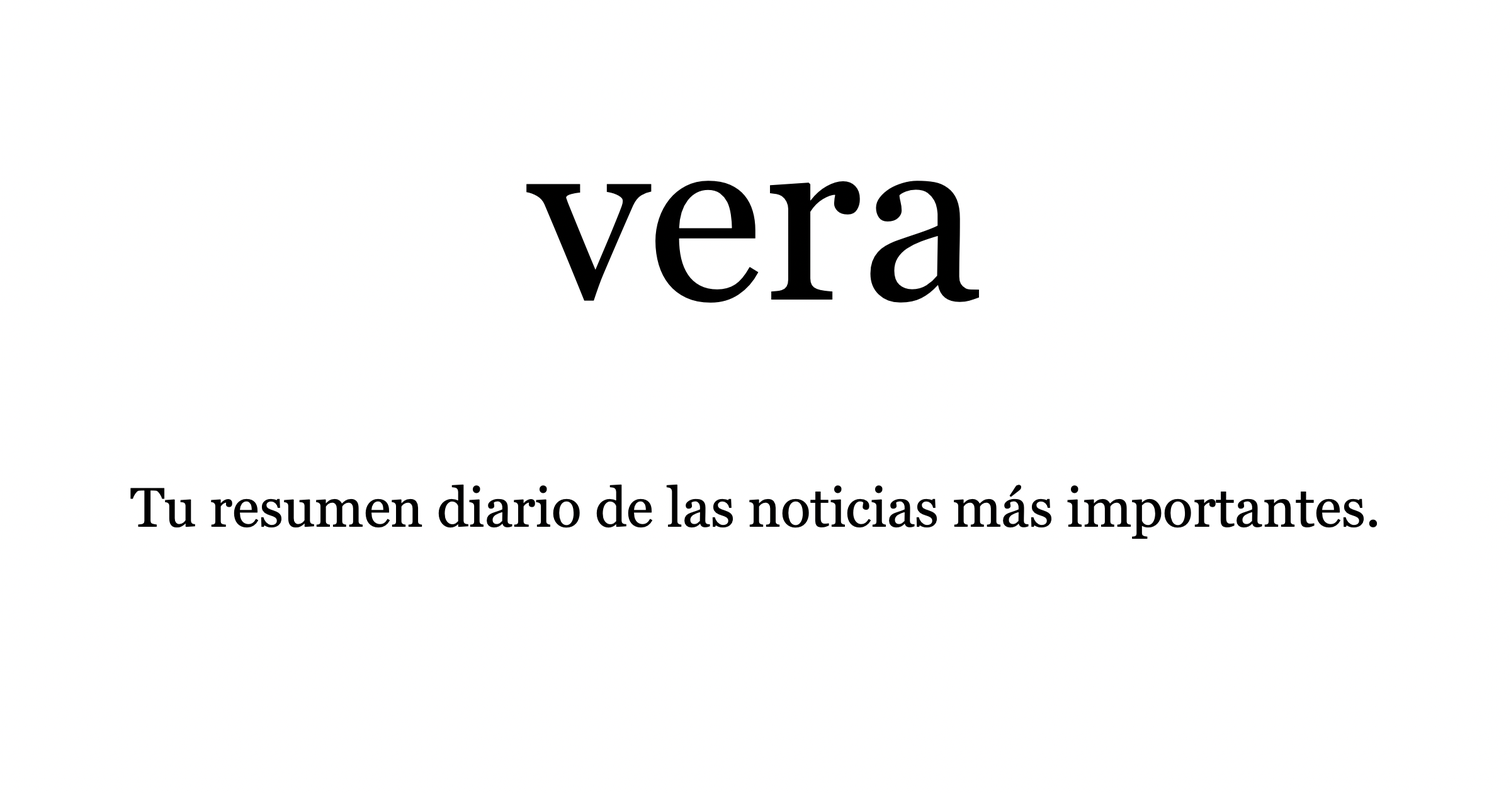
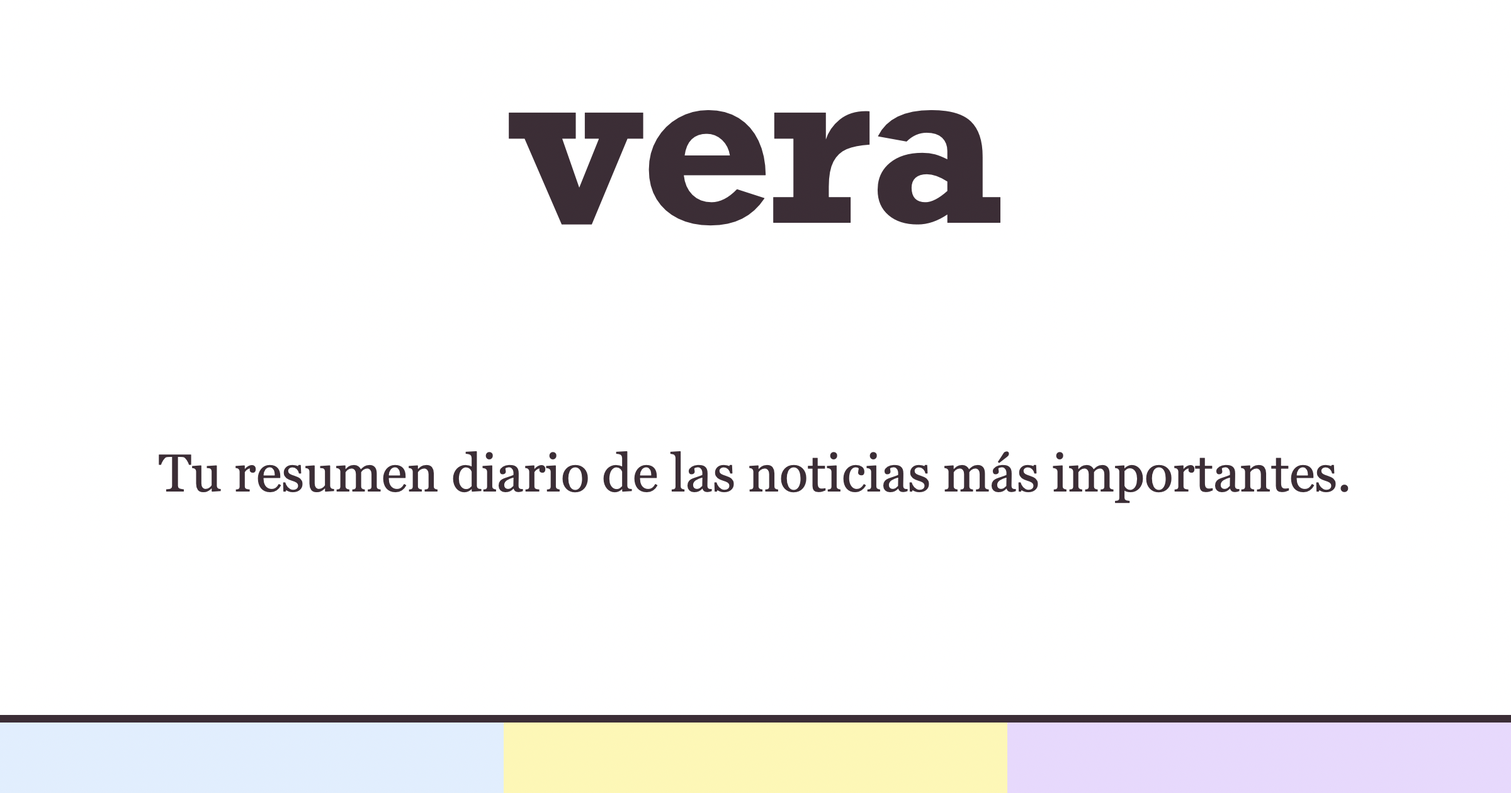
Actualiza formulario (GitHub Actions)

Changed region(s): [[0.0, 0.8976, 1.0, 1.0], [0.3125, 0.1238, 0.6875, 0.4024], [0.0938, 0.5571, 0.9062, 0.681]]

diff --git a/hola/index.html b/hola/index.html
@@ -21,41 +21,43 @@
 <meta name="twitter:description" content="Un correo diario y breve con las noticias más relevantes de Chile y el mundo, más tus temas.">
 <meta name="twitter:image" content="https://holavera.news/og.png">
 <style>
-  :root { --azul:#0047ff; --tinte:#e6edff; --tinta:#1a1a1a; --gris:#737373; --papel:#fff; --bg:#f2f2f2; --serif:Georgia,'Times New Roman',Times,serif; --sans:Helvetica,Arial,sans-serif; }
+  :root { --tinta:#2f2129; --gris:#8a8a8a; --papel:#fff; --bg:#efefef;
+    --azul:#d7eaff; --azul-acento:#538fd1; --amarillo:#fef79f; --mostaza:#aea100; --lila:#e4cdff; --purpura:#a07bcd;
+    --serif:Georgia,'Times New Roman',Times,serif; --slab:Rockwell,'Roboto Slab',Georgia,serif; --sans:Helvetica,Arial,sans-serif; }
   * { box-sizing:border-box; }
   body { margin:0; background:var(--bg); font-family:var(--serif); color:var(--tinta); }
   .wrap { max-width:600px; margin:24px auto; background:var(--papel); }
-  .cab { text-align:center; padding:34px 40px 36px; }
-  .logo { font-size:60px; line-height:1.1; letter-spacing:-0.5px; color:#000; }
+  .cab { text-align:center; padding:34px 40px 26px; border-bottom:2px solid var(--tinta); }
+  .logo { font-family:var(--slab); font-weight:bold; font-size:52px; line-height:1.1; letter-spacing:-0.5px; color:var(--tinta); }
   .lema { font-size:22px; line-height:1.2; margin:18px auto 0; max-width:300px; }
   .fecha { font-size:22px; line-height:1.2; color:var(--gris); margin-top:36px; }
-  .bloque { background:var(--tinte); border-top:2px solid var(--azul); padding:30px 60px 36px; color:var(--azul); }
-  .pill { display:inline-block; font-family:var(--sans); font-size:14px; line-height:18px; font-weight:bold; text-transform:uppercase; letter-spacing:.5px; color:#fff; background:var(--azul); border-radius:5px; padding:7px 18px; }
+  .bloque { background:var(--azul); padding:30px 60px 36px; color:var(--tinta); }
+  .pill { display:inline-block; font-family:var(--sans); font-size:13px; line-height:17px; font-weight:bold; text-transform:uppercase; letter-spacing:.8px; color:#fff; background:var(--tinta); border-radius:3px; padding:6px 14px; }
   .centro { text-align:center; margin-bottom:22px; }
   .bloque p { font-size:22px; line-height:1.25; margin:0 0 16px; }
   .bloque p.hint, .hint { font-family:var(--sans); font-size:12px; line-height:1.5; text-transform:uppercase; letter-spacing:.3px; color:inherit; }
   .form { padding:26px 60px 36px; }
-  h2 { font-family:var(--sans); font-size:14px; font-weight:bold; text-transform:uppercase; letter-spacing:.5px; color:var(--azul); margin:22px 0 10px; }
-  label.f { display:block; font-family:var(--sans); font-size:11px; font-weight:bold; text-transform:uppercase; letter-spacing:.3px; color:var(--azul); margin:16px 0 6px; }
+  h2 { font-family:var(--serif); font-size:24px; font-weight:normal; color:var(--tinta); margin:26px 0 10px; }
+  label.f { display:block; font-family:var(--sans); font-size:11px; font-weight:bold; text-transform:uppercase; letter-spacing:.5px; color:var(--tinta); margin:16px 0 6px; }
   label.f .hint { text-transform:none; letter-spacing:0; font-weight:normal; color:var(--gris); }
-  input[type=text], input[type=email] { width:100%; font:inherit; font-size:18px; padding:9px 12px; border:2px solid var(--azul); border-radius:4px; color:var(--tinta); background:#fff; }
-  input:focus { outline:none; box-shadow:0 0 0 3px var(--tinte); }
+  input[type=text], input[type=email] { width:100%; font:inherit; font-size:18px; padding:9px 12px; border:2px solid var(--tinta); border-radius:3px; color:var(--tinta); background:#fff; }
+  input:focus { outline:none; box-shadow:0 0 0 3px var(--azul); }
   .cat { margin:16px 0 8px; font-family:var(--sans); font-size:11px; letter-spacing:.3px; text-transform:uppercase; color:var(--gris); font-weight:bold; }
-  .subs label { display:inline-block; margin:0 6px 6px 0; font-family:var(--sans); font-size:12px; line-height:14px; text-transform:uppercase; letter-spacing:.5px; color:var(--azul); border:2px solid var(--azul); border-radius:4px; padding:5px 10px; cursor:pointer; user-select:none; }
+  .subs label { display:inline-block; margin:0 6px 6px 0; font-family:var(--sans); font-size:12px; line-height:14px; text-transform:uppercase; letter-spacing:.5px; color:var(--tinta); background:var(--azul); border-radius:3px; padding:6px 11px; cursor:pointer; user-select:none; }
   .subs input { position:absolute; opacity:0; width:0; height:0; }
-  .subs label:has(input:checked) { background:var(--azul); color:#fff; font-weight:bold; }
+  .subs label:has(input:checked) { background:var(--tinta); color:#fff; font-weight:bold; }
   .subs label:has(input:disabled:not(:checked)) { opacity:.4; cursor:default; }
   .p-hint { font-size:17px; line-height:1.3; color:var(--tinta); margin:0 0 6px; }
-  button { margin-top:24px; font-family:var(--sans); font-size:14px; font-weight:bold; text-transform:uppercase; letter-spacing:.5px; background:var(--azul); color:#fff; border:2px solid var(--azul); padding:10px 22px; border-radius:5px; cursor:pointer; }
+  button { margin-top:24px; font-family:var(--sans); font-size:14px; font-weight:bold; text-transform:uppercase; letter-spacing:.8px; background:var(--tinta); color:#fff; border:2px solid var(--tinta); padding:11px 22px; border-radius:3px; cursor:pointer; }
   button:disabled { opacity:.5; cursor:default; }
   .msg { margin-top:16px; font-size:17px; line-height:1.4; }
-  .ok { color:#007a45; } .err { color:#b3261e; }
+  .ok { color:var(--purpura); } .err { color:#b3261e; }
   .pie { border-top:2px solid var(--tinta); padding:24px 60px 32px; font-family:var(--sans); font-size:11px; color:var(--gris); line-height:1.7; text-transform:uppercase; letter-spacing:.3px; text-align:center; }
-  .listo { margin:0 -60px; }
+  .listo { margin:0 -60px; background:var(--lila); padding:30px 60px 36px; color:var(--tinta); }
   .listo .etq { font-family:var(--sans); font-size:12px; font-weight:bold; text-transform:uppercase; letter-spacing:.3px; margin-bottom:8px; }
   .listo .titulo { font-size:42px; line-height:.98; margin:0 0 20px; }
   .listo p { font-size:22px; line-height:1.25; margin:0 0 14px; }
-  .pill-out { display:inline-block; font-family:var(--sans); font-size:12px; line-height:14px; text-transform:uppercase; letter-spacing:.5px; color:var(--azul); border:2px solid var(--azul); border-radius:4px; padding:5px 10px; margin:0 6px 6px 0; }
+  .pill-out { display:inline-block; font-family:var(--sans); font-size:12px; line-height:14px; text-transform:uppercase; letter-spacing:.5px; color:var(--tinta); background:#fff; border-radius:3px; padding:6px 11px; margin:0 6px 6px 0; }
   @media (max-width:480px) { .cab,.bloque,.form,.pie { padding-left:22px; padding-right:22px; } .logo { font-size:48px; } .bloque p { font-size:19px; } .listo { margin:0 -22px; } .listo .titulo { font-size:32px; } }
 </style>
 </head>

diff --git a/index.html b/index.html
@@ -21,41 +21,43 @@
 <meta name="twitter:description" content="Un correo diario y breve con las noticias más relevantes de Chile y el mundo, más tus temas.">
 <meta name="twitter:image" content="https://holavera.news/og.png">
 <style>
-  :root { --azul:#0047ff; --tinte:#e6edff; --tinta:#1a1a1a; --gris:#737373; --papel:#fff; --bg:#f2f2f2; --serif:Georgia,'Times New Roman',Times,serif; --sans:Helvetica,Arial,sans-serif; }
+  :root { --tinta:#2f2129; --gris:#8a8a8a; --papel:#fff; --bg:#efefef;
+    --azul:#d7eaff; --azul-acento:#538fd1; --amarillo:#fef79f; --mostaza:#aea100; --lila:#e4cdff; --purpura:#a07bcd;
+    --serif:Georgia,'Times New Roman',Times,serif; --slab:Rockwell,'Roboto Slab',Georgia,serif; --sans:Helvetica,Arial,sans-serif; }
   * { box-sizing:border-box; }
   body { margin:0; background:var(--bg); font-family:var(--serif); color:var(--tinta); }
   .wrap { max-width:600px; margin:24px auto; background:var(--papel); }
-  .cab { text-align:center; padding:34px 40px 36px; }
-  .logo { font-size:60px; line-height:1.1; letter-spacing:-0.5px; color:#000; }
+  .cab { text-align:center; padding:34px 40px 26px; border-bottom:2px solid var(--tinta); }
+  .logo { font-family:var(--slab); font-weight:bold; font-size:52px; line-height:1.1; letter-spacing:-0.5px; color:var(--tinta); }
   .lema { font-size:22px; line-height:1.2; margin:18px auto 0; max-width:300px; }
   .fecha { font-size:22px; line-height:1.2; color:var(--gris); margin-top:36px; }
-  .bloque { background:var(--tinte); border-top:2px solid var(--azul); padding:30px 60px 36px; color:var(--azul); }
-  .pill { display:inline-block; font-family:var(--sans); font-size:14px; line-height:18px; font-weight:bold; text-transform:uppercase; letter-spacing:.5px; color:#fff; background:var(--azul); border-radius:5px; padding:7px 18px; }
+  .bloque { background:var(--azul); padding:30px 60px 36px; color:var(--tinta); }
+  .pill { display:inline-block; font-family:var(--sans); font-size:13px; line-height:17px; font-weight:bold; text-transform:uppercase; letter-spacing:.8px; color:#fff; background:var(--tinta); border-radius:3px; padding:6px 14px; }
   .centro { text-align:center; margin-bottom:22px; }
   .bloque p { font-size:22px; line-height:1.25; margin:0 0 16px; }
   .bloque p.hint, .hint { font-family:var(--sans); font-size:12px; line-height:1.5; text-transform:uppercase; letter-spacing:.3px; color:inherit; }
   .form { padding:26px 60px 36px; }
-  h2 { font-family:var(--sans); font-size:14px; font-weight:bold; text-transform:uppercase; letter-spacing:.5px; color:var(--azul); margin:22px 0 10px; }
-  label.f { display:block; font-family:var(--sans); font-size:11px; font-weight:bold; text-transform:uppercase; letter-spacing:.3px; color:var(--azul); margin:16px 0 6px; }
+  h2 { font-family:var(--serif); font-size:24px; font-weight:normal; color:var(--tinta); margin:26px 0 10px; }
+  label.f { display:block; font-family:var(--sans); font-size:11px; font-weight:bold; text-transform:uppercase; letter-spacing:.5px; color:var(--tinta); margin:16px 0 6px; }
   label.f .hint { text-transform:none; letter-spacing:0; font-weight:normal; color:var(--gris); }
-  input[type=text], input[type=email] { width:100%; font:inherit; font-size:18px; padding:9px 12px; border:2px solid var(--azul); border-radius:4px; color:var(--tinta); background:#fff; }
-  input:focus { outline:none; box-shadow:0 0 0 3px var(--tinte); }
+  input[type=text], input[type=email] { width:100%; font:inherit; font-size:18px; padding:9px 12px; border:2px solid var(--tinta); border-radius:3px; color:var(--tinta); background:#fff; }
+  input:focus { outline:none; box-shadow:0 0 0 3px var(--azul); }
   .cat { margin:16px 0 8px; font-family:var(--sans); font-size:11px; letter-spacing:.3px; text-transform:uppercase; color:var(--gris); font-weight:bold; }
-  .subs label { display:inline-block; margin:0 6px 6px 0; font-family:var(--sans); font-size:12px; line-height:14px; text-transform:uppercase; letter-spacing:.5px; color:var(--azul); border:2px solid var(--azul); border-radius:4px; padding:5px 10px; cursor:pointer; user-select:none; }
+  .subs label { display:inline-block; margin:0 6px 6px 0; font-family:var(--sans); font-size:12px; line-height:14px; text-transform:uppercase; letter-spacing:.5px; color:var(--tinta); background:var(--azul); border-radius:3px; padding:6px 11px; cursor:pointer; user-select:none; }
   .subs input { position:absolute; opacity:0; width:0; height:0; }
-  .subs label:has(input:checked) { background:var(--azul); color:#fff; font-weight:bold; }
+  .subs label:has(input:checked) { background:var(--tinta); color:#fff; font-weight:bold; }
   .subs label:has(input:disabled:not(:checked)) { opacity:.4; cursor:default; }
   .p-hint { font-size:17px; line-height:1.3; color:var(--tinta); margin:0 0 6px; }
-  button { margin-top:24px; font-family:var(--sans); font-size:14px; font-weight:bold; text-transform:uppercase; letter-spacing:.5px; background:var(--azul); color:#fff; border:2px solid var(--azul); padding:10px 22px; border-radius:5px; cursor:pointer; }
+  button { margin-top:24px; font-family:var(--sans); font-size:14px; font-weight:bold; text-transform:uppercase; letter-spacing:.8px; background:var(--tinta); color:#fff; border:2px solid var(--tinta); padding:11px 22px; border-radius:3px; cursor:pointer; }
   button:disabled { opacity:.5; cursor:default; }
   .msg { margin-top:16px; font-size:17px; line-height:1.4; }
-  .ok { color:#007a45; } .err { color:#b3261e; }
+  .ok { color:var(--purpura); } .err { color:#b3261e; }
   .pie { border-top:2px solid var(--tinta); padding:24px 60px 32px; font-family:var(--sans); font-size:11px; color:var(--gris); line-height:1.7; text-transform:uppercase; letter-spacing:.3px; text-align:center; }
-  .listo { margin:0 -60px; }
+  .listo { margin:0 -60px; background:var(--lila); padding:30px 60px 36px; color:var(--tinta); }
   .listo .etq { font-family:var(--sans); font-size:12px; font-weight:bold; text-transform:uppercase; letter-spacing:.3px; margin-bottom:8px; }
   .listo .titulo { font-size:42px; line-height:.98; margin:0 0 20px; }
   .listo p { font-size:22px; line-height:1.25; margin:0 0 14px; }
-  .pill-out { display:inline-block; font-family:var(--sans); font-size:12px; line-height:14px; text-transform:uppercase; letter-spacing:.5px; color:var(--azul); border:2px solid var(--azul); border-radius:4px; padding:5px 10px; margin:0 6px 6px 0; }
+  .pill-out { display:inline-block; font-family:var(--sans); font-size:12px; line-height:14px; text-transform:uppercase; letter-spacing:.5px; color:var(--tinta); background:#fff; border-radius:3px; padding:6px 11px; margin:0 6px 6px 0; }
   @media (max-width:480px) { .cab,.bloque,.form,.pie { padding-left:22px; padding-right:22px; } .logo { font-size:48px; } .bloque p { font-size:19px; } .listo { margin:0 -22px; } .listo .titulo { font-size:32px; } }
 </style>
 </head>

diff --git a/prueba/index.html b/prueba/index.html
@@ -21,41 +21,43 @@
 <meta name="twitter:description" content="Un correo diario y breve con las noticias más relevantes de Chile y el mundo, más tus temas.">
 <meta name="twitter:image" content="https://holavera.news/og.png">
 <style>
-  :root { --azul:#0047ff; --tinte:#e6edff; --tinta:#1a1a1a; --gris:#737373; --papel:#fff; --bg:#f2f2f2; --serif:Georgia,'Times New Roman',Times,serif; --sans:Helvetica,Arial,sans-serif; }
+  :root { --tinta:#2f2129; --gris:#8a8a8a; --papel:#fff; --bg:#efefef;
+    --azul:#d7eaff; --azul-acento:#538fd1; --amarillo:#fef79f; --mostaza:#aea100; --lila:#e4cdff; --purpura:#a07bcd;
+    --serif:Georgia,'Times New Roman',Times,serif; --slab:Rockwell,'Roboto Slab',Georgia,serif; --sans:Helvetica,Arial,sans-serif; }
   * { box-sizing:border-box; }
   body { margin:0; background:var(--bg); font-family:var(--serif); color:var(--tinta); }
   .wrap { max-width:600px; margin:24px auto; background:var(--papel); }
-  .cab { text-align:center; padding:34px 40px 36px; }
-  .logo { font-size:60px; line-height:1.1; letter-spacing:-0.5px; color:#000; }
+  .cab { text-align:center; padding:34px 40px 26px; border-bottom:2px solid var(--tinta); }
+  .logo { font-family:var(--slab); font-weight:bold; font-size:52px; line-height:1.1; letter-spacing:-0.5px; color:var(--tinta); }
   .lema { font-size:22px; line-height:1.2; margin:18px auto 0; max-width:300px; }
   .fecha { font-size:22px; line-height:1.2; color:var(--gris); margin-top:36px; }
-  .bloque { background:var(--tinte); border-top:2px solid var(--azul); padding:30px 60px 36px; color:var(--azul); }
-  .pill { display:inline-block; font-family:var(--sans); font-size:14px; line-height:18px; font-weight:bold; text-transform:uppercase; letter-spacing:.5px; color:#fff; background:var(--azul); border-radius:5px; padding:7px 18px; }
+  .bloque { background:var(--azul); padding:30px 60px 36px; color:var(--tinta); }
+  .pill { display:inline-block; font-family:var(--sans); font-size:13px; line-height:17px; font-weight:bold; text-transform:uppercase; letter-spacing:.8px; color:#fff; background:var(--tinta); border-radius:3px; padding:6px 14px; }
   .centro { text-align:center; margin-bottom:22px; }
   .bloque p { font-size:22px; line-height:1.25; margin:0 0 16px; }
   .bloque p.hint, .hint { font-family:var(--sans); font-size:12px; line-height:1.5; text-transform:uppercase; letter-spacing:.3px; color:inherit; }
   .form { padding:26px 60px 36px; }
-  h2 { font-family:var(--sans); font-size:14px; font-weight:bold; text-transform:uppercase; letter-spacing:.5px; color:var(--azul); margin:22px 0 10px; }
-  label.f { display:block; font-family:var(--sans); font-size:11px; font-weight:bold; text-transform:uppercase; letter-spacing:.3px; color:var(--azul); margin:16px 0 6px; }
+  h2 { font-family:var(--serif); font-size:24px; font-weight:normal; color:var(--tinta); margin:26px 0 10px; }
+  label.f { display:block; font-family:var(--sans); font-size:11px; font-weight:bold; text-transform:uppercase; letter-spacing:.5px; color:var(--tinta); margin:16px 0 6px; }
   label.f .hint { text-transform:none; letter-spacing:0; font-weight:normal; color:var(--gris); }
-  input[type=text], input[type=email] { width:100%; font:inherit; font-size:18px; padding:9px 12px; border:2px solid var(--azul); border-radius:4px; color:var(--tinta); background:#fff; }
-  input:focus { outline:none; box-shadow:0 0 0 3px var(--tinte); }
+  input[type=text], input[type=email] { width:100%; font:inherit; font-size:18px; padding:9px 12px; border:2px solid var(--tinta); border-radius:3px; color:var(--tinta); background:#fff; }
+  input:focus { outline:none; box-shadow:0 0 0 3px var(--azul); }
   .cat { margin:16px 0 8px; font-family:var(--sans); font-size:11px; letter-spacing:.3px; text-transform:uppercase; color:var(--gris); font-weight:bold; }
-  .subs label { display:inline-block; margin:0 6px 6px 0; font-family:var(--sans); font-size:12px; line-height:14px; text-transform:uppercase; letter-spacing:.5px; color:var(--azul); border:2px solid var(--azul); border-radius:4px; padding:5px 10px; cursor:pointer; user-select:none; }
+  .subs label { display:inline-block; margin:0 6px 6px 0; font-family:var(--sans); font-size:12px; line-height:14px; text-transform:uppercase; letter-spacing:.5px; color:var(--tinta); background:var(--azul); border-radius:3px; padding:6px 11px; cursor:pointer; user-select:none; }
   .subs input { position:absolute; opacity:0; width:0; height:0; }
-  .subs label:has(input:checked) { background:var(--azul); color:#fff; font-weight:bold; }
+  .subs label:has(input:checked) { background:var(--tinta); color:#fff; font-weight:bold; }
   .subs label:has(input:disabled:not(:checked)) { opacity:.4; cursor:default; }
   .p-hint { font-size:17px; line-height:1.3; color:var(--tinta); margin:0 0 6px; }
-  button { margin-top:24px; font-family:var(--sans); font-size:14px; font-weight:bold; text-transform:uppercase; letter-spacing:.5px; background:var(--azul); color:#fff; border:2px solid var(--azul); padding:10px 22px; border-radius:5px; cursor:pointer; }
+  button { margin-top:24px; font-family:var(--sans); font-size:14px; font-weight:bold; text-transform:uppercase; letter-spacing:.8px; background:var(--tinta); color:#fff; border:2px solid var(--tinta); padding:11px 22px; border-radius:3px; cursor:pointer; }
   button:disabled { opacity:.5; cursor:default; }
   .msg { margin-top:16px; font-size:17px; line-height:1.4; }
-  .ok { color:#007a45; } .err { color:#b3261e; }
+  .ok { color:var(--purpura); } .err { color:#b3261e; }
   .pie { border-top:2px solid var(--tinta); padding:24px 60px 32px; font-family:var(--sans); font-size:11px; color:var(--gris); line-height:1.7; text-transform:uppercase; letter-spacing:.3px; text-align:center; }
-  .listo { margin:0 -60px; }
+  .listo { margin:0 -60px; background:var(--lila); padding:30px 60px 36px; color:var(--tinta); }
   .listo .etq { font-family:var(--sans); font-size:12px; font-weight:bold; text-transform:uppercase; letter-spacing:.3px; margin-bottom:8px; }
   .listo .titulo { font-size:42px; line-height:.98; margin:0 0 20px; }
   .listo p { font-size:22px; line-height:1.25; margin:0 0 14px; }
-  .pill-out { display:inline-block; font-family:var(--sans); font-size:12px; line-height:14px; text-transform:uppercase; letter-spacing:.5px; color:var(--azul); border:2px solid var(--azul); border-radius:4px; padding:5px 10px; margin:0 6px 6px 0; }
+  .pill-out { display:inline-block; font-family:var(--sans); font-size:12px; line-height:14px; text-transform:uppercase; letter-spacing:.5px; color:var(--tinta); background:#fff; border-radius:3px; padding:6px 11px; margin:0 6px 6px 0; }
   @media (max-width:480px) { .cab,.bloque,.form,.pie { padding-left:22px; padding-right:22px; } .logo { font-size:48px; } .bloque p { font-size:19px; } .listo { margin:0 -22px; } .listo .titulo { font-size:32px; } }
 </style>
 </head>

diff --git a/unete/index.html b/unete/index.html
@@ -21,41 +21,43 @@
 <meta name="twitter:description" content="Un correo diario y breve con las noticias más relevantes de Chile y el mundo, más tus temas.">
 <meta name="twitter:image" content="https://holavera.news/og.png">
 <style>
-  :root { --azul:#0047ff; --tinte:#e6edff; --tinta:#1a1a1a; --gris:#737373; --papel:#fff; --bg:#f2f2f2; --serif:Georgia,'Times New Roman',Times,serif; --sans:Helvetica,Arial,sans-serif; }
+  :root { --tinta:#2f2129; --gris:#8a8a8a; --papel:#fff; --bg:#efefef;
+    --azul:#d7eaff; --azul-acento:#538fd1; --amarillo:#fef79f; --mostaza:#aea100; --lila:#e4cdff; --purpura:#a07bcd;
+    --serif:Georgia,'Times New Roman',Times,serif; --slab:Rockwell,'Roboto Slab',Georgia,serif; --sans:Helvetica,Arial,sans-serif; }
   * { box-sizing:border-box; }
   body { margin:0; background:var(--bg); font-family:var(--serif); color:var(--tinta); }
   .wrap { max-width:600px; margin:24px auto; background:var(--papel); }
-  .cab { text-align:center; padding:34px 40px 36px; }
-  .logo { font-size:60px; line-height:1.1; letter-spacing:-0.5px; color:#000; }
+  .cab { text-align:center; padding:34px 40px 26px; border-bottom:2px solid var(--tinta); }
+  .logo { font-family:var(--slab); font-weight:bold; font-size:52px; line-height:1.1; letter-spacing:-0.5px; color:var(--tinta); }
   .lema { font-size:22px; line-height:1.2; margin:18px auto 0; max-width:300px; }
   .fecha { font-size:22px; line-height:1.2; color:var(--gris); margin-top:36px; }
-  .bloque { background:var(--tinte); border-top:2px solid var(--azul); padding:30px 60px 36px; color:var(--azul); }
-  .pill { display:inline-block; font-family:var(--sans); font-size:14px; line-height:18px; font-weight:bold; text-transform:uppercase; letter-spacing:.5px; color:#fff; background:var(--azul); border-radius:5px; padding:7px 18px; }
+  .bloque { background:var(--azul); padding:30px 60px 36px; color:var(--tinta); }
+  .pill { display:inline-block; font-family:var(--sans); font-size:13px; line-height:17px; font-weight:bold; text-transform:uppercase; letter-spacing:.8px; color:#fff; background:var(--tinta); border-radius:3px; padding:6px 14px; }
   .centro { text-align:center; margin-bottom:22px; }
   .bloque p { font-size:22px; line-height:1.25; margin:0 0 16px; }
   .bloque p.hint, .hint { font-family:var(--sans); font-size:12px; line-height:1.5; text-transform:uppercase; letter-spacing:.3px; color:inherit; }
   .form { padding:26px 60px 36px; }
-  h2 { font-family:var(--sans); font-size:14px; font-weight:bold; text-transform:uppercase; letter-spacing:.5px; color:var(--azul); margin:22px 0 10px; }
-  label.f { display:block; font-family:var(--sans); font-size:11px; font-weight:bold; text-transform:uppercase; letter-spacing:.3px; color:var(--azul); margin:16px 0 6px; }
+  h2 { font-family:var(--serif); font-size:24px; font-weight:normal; color:var(--tinta); margin:26px 0 10px; }
+  label.f { display:block; font-family:var(--sans); font-size:11px; font-weight:bold; text-transform:uppercase; letter-spacing:.5px; color:var(--tinta); margin:16px 0 6px; }
   label.f .hint { text-transform:none; letter-spacing:0; font-weight:normal; color:var(--gris); }
-  input[type=text], input[type=email] { width:100%; font:inherit; font-size:18px; padding:9px 12px; border:2px solid var(--azul); border-radius:4px; color:var(--tinta); background:#fff; }
-  input:focus { outline:none; box-shadow:0 0 0 3px var(--tinte); }
+  input[type=text], input[type=email] { width:100%; font:inherit; font-size:18px; padding:9px 12px; border:2px solid var(--tinta); border-radius:3px; color:var(--tinta); background:#fff; }
+  input:focus { outline:none; box-shadow:0 0 0 3px var(--azul); }
   .cat { margin:16px 0 8px; font-family:var(--sans); font-size:11px; letter-spacing:.3px; text-transform:uppercase; color:var(--gris); font-weight:bold; }
-  .subs label { display:inline-block; margin:0 6px 6px 0; font-family:var(--sans); font-size:12px; line-height:14px; text-transform:uppercase; letter-spacing:.5px; color:var(--azul); border:2px solid var(--azul); border-radius:4px; padding:5px 10px; cursor:pointer; user-select:none; }
+  .subs label { display:inline-block; margin:0 6px 6px 0; font-family:var(--sans); font-size:12px; line-height:14px; text-transform:uppercase; letter-spacing:.5px; color:var(--tinta); background:var(--azul); border-radius:3px; padding:6px 11px; cursor:pointer; user-select:none; }
   .subs input { position:absolute; opacity:0; width:0; height:0; }
-  .subs label:has(input:checked) { background:var(--azul); color:#fff; font-weight:bold; }
+  .subs label:has(input:checked) { background:var(--tinta); color:#fff; font-weight:bold; }
   .subs label:has(input:disabled:not(:checked)) { opacity:.4; cursor:default; }
   .p-hint { font-size:17px; line-height:1.3; color:var(--tinta); margin:0 0 6px; }
-  button { margin-top:24px; font-family:var(--sans); font-size:14px; font-weight:bold; text-transform:uppercase; letter-spacing:.5px; background:var(--azul); color:#fff; border:2px solid var(--azul); padding:10px 22px; border-radius:5px; cursor:pointer; }
+  button { margin-top:24px; font-family:var(--sans); font-size:14px; font-weight:bold; text-transform:uppercase; letter-spacing:.8px; background:var(--tinta); color:#fff; border:2px solid var(--tinta); padding:11px 22px; border-radius:3px; cursor:pointer; }
   button:disabled { opacity:.5; cursor:default; }
   .msg { margin-top:16px; font-size:17px; line-height:1.4; }
-  .ok { color:#007a45; } .err { color:#b3261e; }
+  .ok { color:var(--purpura); } .err { color:#b3261e; }
   .pie { border-top:2px solid var(--tinta); padding:24px 60px 32px; font-family:var(--sans); font-size:11px; color:var(--gris); line-height:1.7; text-transform:uppercase; letter-spacing:.3px; text-align:center; }
-  .listo { margin:0 -60px; }
+  .listo { margin:0 -60px; background:var(--lila); padding:30px 60px 36px; color:var(--tinta); }
   .listo .etq { font-family:var(--sans); font-size:12px; font-weight:bold; text-transform:uppercase; letter-spacing:.3px; margin-bottom:8px; }
   .listo .titulo { font-size:42px; line-height:.98; margin:0 0 20px; }
   .listo p { font-size:22px; line-height:1.25; margin:0 0 14px; }
-  .pill-out { display:inline-block; font-family:var(--sans); font-size:12px; line-height:14px; text-transform:uppercase; letter-spacing:.5px; color:var(--azul); border:2px solid var(--azul); border-radius:4px; padding:5px 10px; margin:0 6px 6px 0; }
+  .pill-out { display:inline-block; font-family:var(--sans); font-size:12px; line-height:14px; text-transform:uppercase; letter-spacing:.5px; color:var(--tinta); background:#fff; border-radius:3px; padding:6px 11px; margin:0 6px 6px 0; }
   @media (max-width:480px) { .cab,.bloque,.form,.pie { padding-left:22px; padding-right:22px; } .logo { font-size:48px; } .bloque p { font-size:19px; } .listo { margin:0 -22px; } .listo .titulo { font-size:32px; } }
 </style>
 </head>

diff --git a/encuesta/index.html b/encuesta/index.html
@@ -20,34 +20,36 @@
 <meta name="twitter:description" content="7 preguntas cortas sobre cómo te informas. Toma 5 minutos.">
 <meta name="twitter:image" content="https://holavera.news/og.png">
 <style>
-  :root { --azul:#0047ff; --tinte:#e6edff; --tinta:#1a1a1a; --gris:#737373; --papel:#fff; --bg:#f2f2f2; --serif:Georgia,'Times New Roman',Times,serif; --sans:Helvetica,Arial,sans-serif; }
+  :root { --tinta:#2f2129; --gris:#8a8a8a; --papel:#fff; --bg:#efefef;
+    --azul:#d7eaff; --azul-acento:#538fd1; --amarillo:#fef79f; --mostaza:#aea100; --lila:#e4cdff; --purpura:#a07bcd;
+    --serif:Georgia,'Times New Roman',Times,serif; --slab:Rockwell,'Roboto Slab',Georgia,serif; --sans:Helvetica,Arial,sans-serif; }
   * { box-sizing:border-box; }
   body { margin:0; background:var(--bg); font-family:var(--serif); color:var(--tinta); }
   .wrap { max-width:600px; margin:24px auto; background:var(--papel); }
-  .cab { text-align:center; padding:34px 40px 36px; }
-  .logo { font-size:60px; line-height:1.1; letter-spacing:-0.5px; color:#000; }
+  .cab { text-align:center; padding:34px 40px 26px; border-bottom:2px solid var(--tinta); }
+  .logo { font-family:var(--slab); font-weight:bold; font-size:52px; line-height:1.1; letter-spacing:-0.5px; color:var(--tinta); }
   .lema { font-size:22px; line-height:1.2; margin:18px auto 0; max-width:300px; }
   .fecha { font-size:22px; line-height:1.2; color:var(--gris); margin-top:36px; }
-  .bloque { background:var(--tinte); border-top:2px solid var(--azul); padding:30px 60px 36px; color:var(--azul); }
-  .pill { display:inline-block; font-family:var(--sans); font-size:14px; line-height:18px; font-weight:bold; text-transform:uppercase; letter-spacing:.5px; color:#fff; background:var(--azul); border-radius:5px; padding:7px 18px; }
+  .bloque { background:var(--azul); padding:30px 60px 36px; color:var(--tinta); }
+  .pill { display:inline-block; font-family:var(--sans); font-size:13px; line-height:17px; font-weight:bold; text-transform:uppercase; letter-spacing:.8px; color:#fff; background:var(--tinta); border-radius:3px; padding:6px 14px; }
   .centro { text-align:center; margin-bottom:22px; }
   .bloque p { font-size:22px; line-height:1.25; margin:0 0 16px; }
   .hint { font-family:var(--sans); font-size:12px; line-height:1.5; text-transform:uppercase; letter-spacing:.3px; color:inherit; }
   .form { padding:26px 60px 40px; }
-  .num { display:inline-block; font-family:var(--sans); font-size:11px; font-weight:bold; letter-spacing:.5px; color:#fff; background:var(--azul); border-radius:4px; padding:3px 9px; margin-right:8px; vertical-align:2px; }
+  .num { display:inline-block; font-family:var(--sans); font-size:11px; font-weight:bold; letter-spacing:.5px; color:#fff; background:var(--tinta); border-radius:3px; padding:3px 9px; margin-right:8px; vertical-align:2px; }
   label.p { display:block; font-size:21px; line-height:1.25; margin:30px 0 10px; }
   label.p .aclara { font-size:16px; color:var(--gris); }
-  textarea { width:100%; font:inherit; font-size:17px; line-height:1.4; padding:10px 12px; border:2px solid var(--azul); border-radius:4px; color:var(--tinta); background:#fff; min-height:84px; resize:vertical; }
-  textarea:focus, input:focus { outline:none; box-shadow:0 0 0 3px var(--tinte); }
-  h2 { font-family:var(--sans); font-size:14px; font-weight:bold; text-transform:uppercase; letter-spacing:.5px; color:var(--azul); margin:30px 0 10px; }
-  label.f { display:block; font-family:var(--sans); font-size:11px; font-weight:bold; text-transform:uppercase; letter-spacing:.3px; color:var(--azul); margin:14px 0 6px; }
+  textarea { width:100%; font:inherit; font-size:17px; line-height:1.4; padding:10px 12px; border:2px solid var(--tinta); border-radius:3px; color:var(--tinta); background:#fff; min-height:84px; resize:vertical; }
+  textarea:focus, input:focus { outline:none; box-shadow:0 0 0 3px var(--azul); }
+  h2 { font-family:var(--serif); font-size:24px; font-weight:normal; color:var(--tinta); margin:30px 0 10px; }
+  label.f { display:block; font-family:var(--sans); font-size:11px; font-weight:bold; text-transform:uppercase; letter-spacing:.5px; color:var(--tinta); margin:14px 0 6px; }
   label.f .op { text-transform:none; letter-spacing:0; font-weight:normal; color:var(--gris); }
-  input[type=text] { width:100%; font:inherit; font-size:17px; padding:9px 12px; border:2px solid var(--azul); border-radius:4px; color:var(--tinta); background:#fff; }
+  input[type=text] { width:100%; font:inherit; font-size:17px; padding:9px 12px; border:2px solid var(--tinta); border-radius:3px; color:var(--tinta); background:#fff; }
   .fila { display:flex; gap:12px; } .fila > div { flex:1; }
-  button { margin-top:26px; font-family:var(--sans); font-size:14px; font-weight:bold; text-transform:uppercase; letter-spacing:.5px; background:var(--azul); color:#fff; border:2px solid var(--azul); padding:11px 22px; border-radius:5px; cursor:pointer; }
+  button { margin-top:26px; font-family:var(--sans); font-size:14px; font-weight:bold; text-transform:uppercase; letter-spacing:.8px; background:var(--tinta); color:#fff; border:2px solid var(--tinta); padding:11px 22px; border-radius:3px; cursor:pointer; }
   button:disabled { opacity:.5; cursor:default; }
   .msg { margin-top:16px; font-size:17px; line-height:1.4; } .err { color:#b3261e; }
-  .listo { background:var(--tinte); border-top:2px solid var(--azul); padding:30px 60px 40px; color:var(--azul); }
+  .listo { background:var(--lila); padding:30px 60px 40px; color:var(--tinta); }
   .listo .titulo { font-size:42px; line-height:.98; margin:0 0 20px; }
   .listo p { font-size:22px; line-height:1.25; margin:0 0 14px; }
   .pie { border-top:2px solid var(--tinta); padding:24px 60px 32px; font-family:var(--sans); font-size:11px; color:var(--gris); line-height:1.7; text-transform:uppercase; letter-spacing:.3px; text-align:center; }
